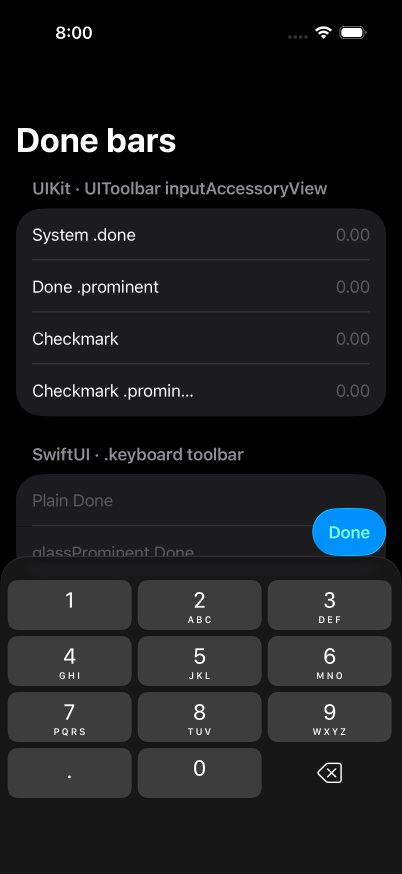
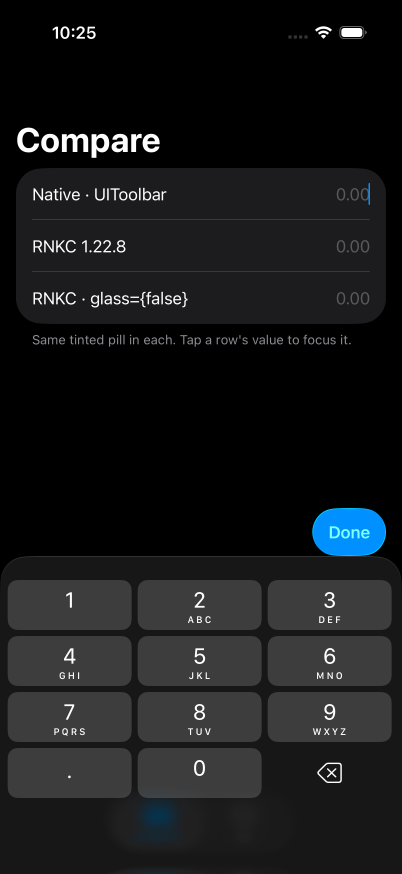
Add Compare tab and re-capture README shots without content behind the bar

diff --git a/Sources/main.swift b/Sources/main.swift
@@ -4,7 +4,12 @@ import UIKit
 @main
 struct RNKCDoneGlassApp: App {
   var body: some Scene {
-    WindowGroup { ContentView() }
+    WindowGroup {
+      TabView {
+        Tab("Compare", systemImage: "rectangle.split.3x1") { CompareView() }
+        Tab("All", systemImage: "list.bullet") { ContentView() }
+      }
+    }
   }
 }
 
@@ -61,6 +66,30 @@ struct NoBarField: UIViewRepresentable {
   }
 
   func updateUIView(_ uiView: UITextField, context: Context) {}
+}
+
+/// The three rows worth comparing, with nothing behind the bar so the glass reads clearly.
+struct CompareView: View {
+  var body: some View {
+    NavigationStack {
+      Form {
+        Section {
+          LabeledContent("Native · UIToolbar") {
+            UIKitField(variant: .prominentDone, testID: "compareNative")
+          }
+          LabeledContent("RNKC 1.22.8") {
+            RNKCField(variant: .stockTintedPill, testID: "compareStock")
+          }
+          LabeledContent("RNKC · glass={false}") {
+            RNKCField(variant: .patchedTintedPill, testID: "comparePatched")
+          }
+        } footer: {
+          Text("Same tinted pill in each. Tap a row's value to focus it.")
+        }
+      }
+      .navigationTitle("Compare")
+    }
+  }
 }
 
 struct ContentView: View {
